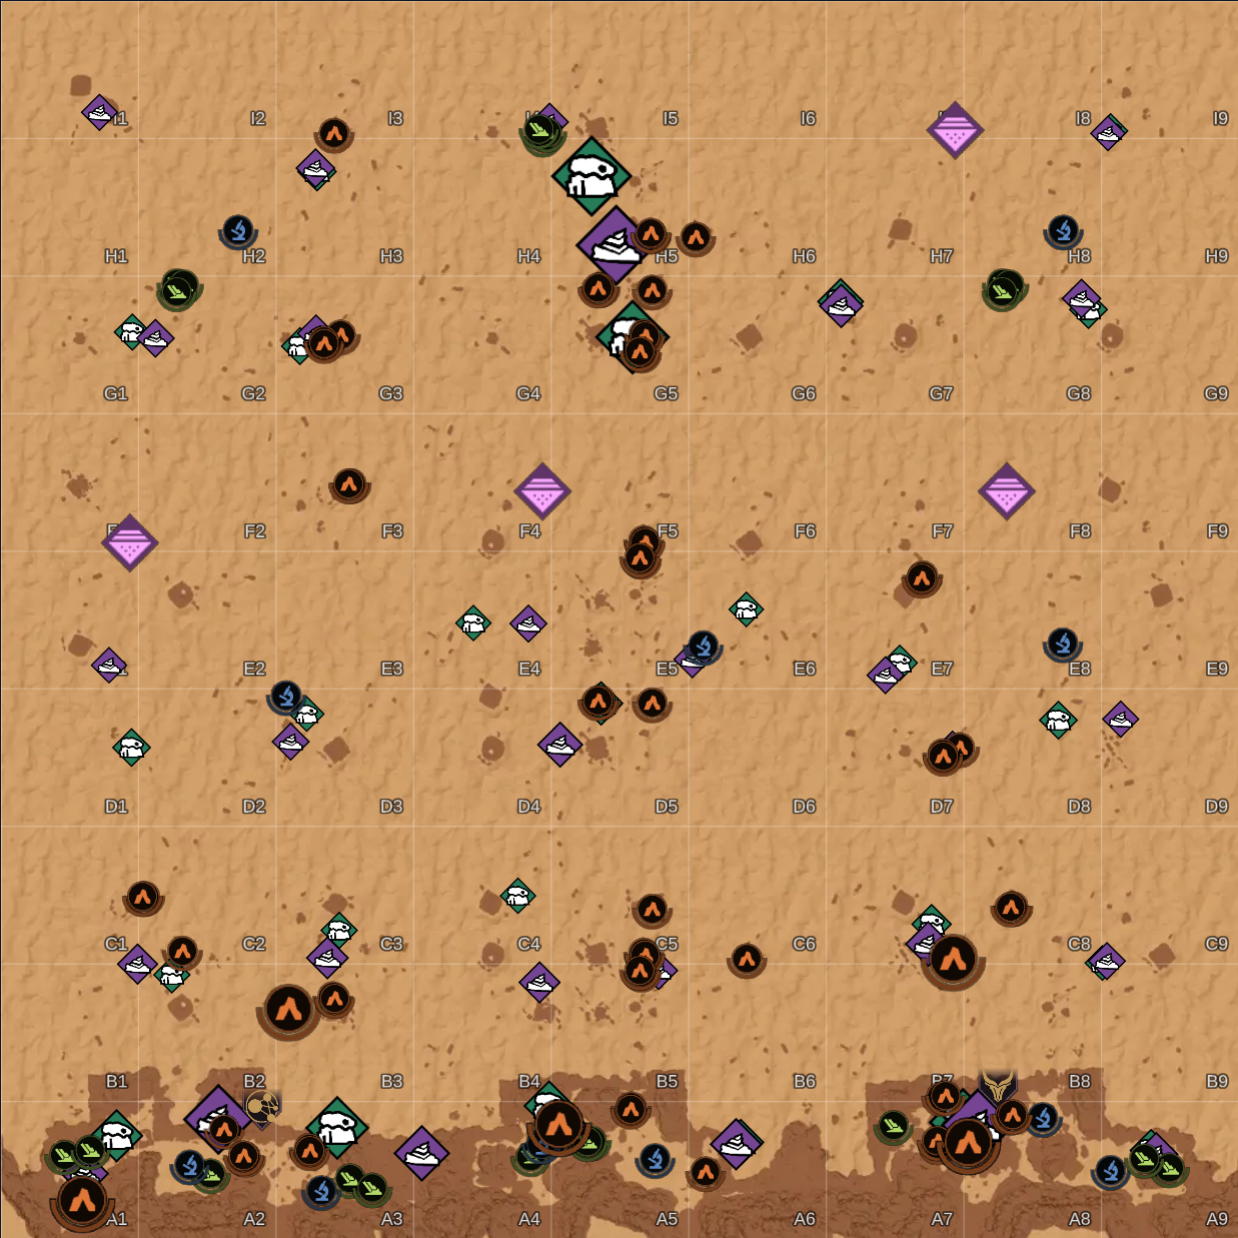
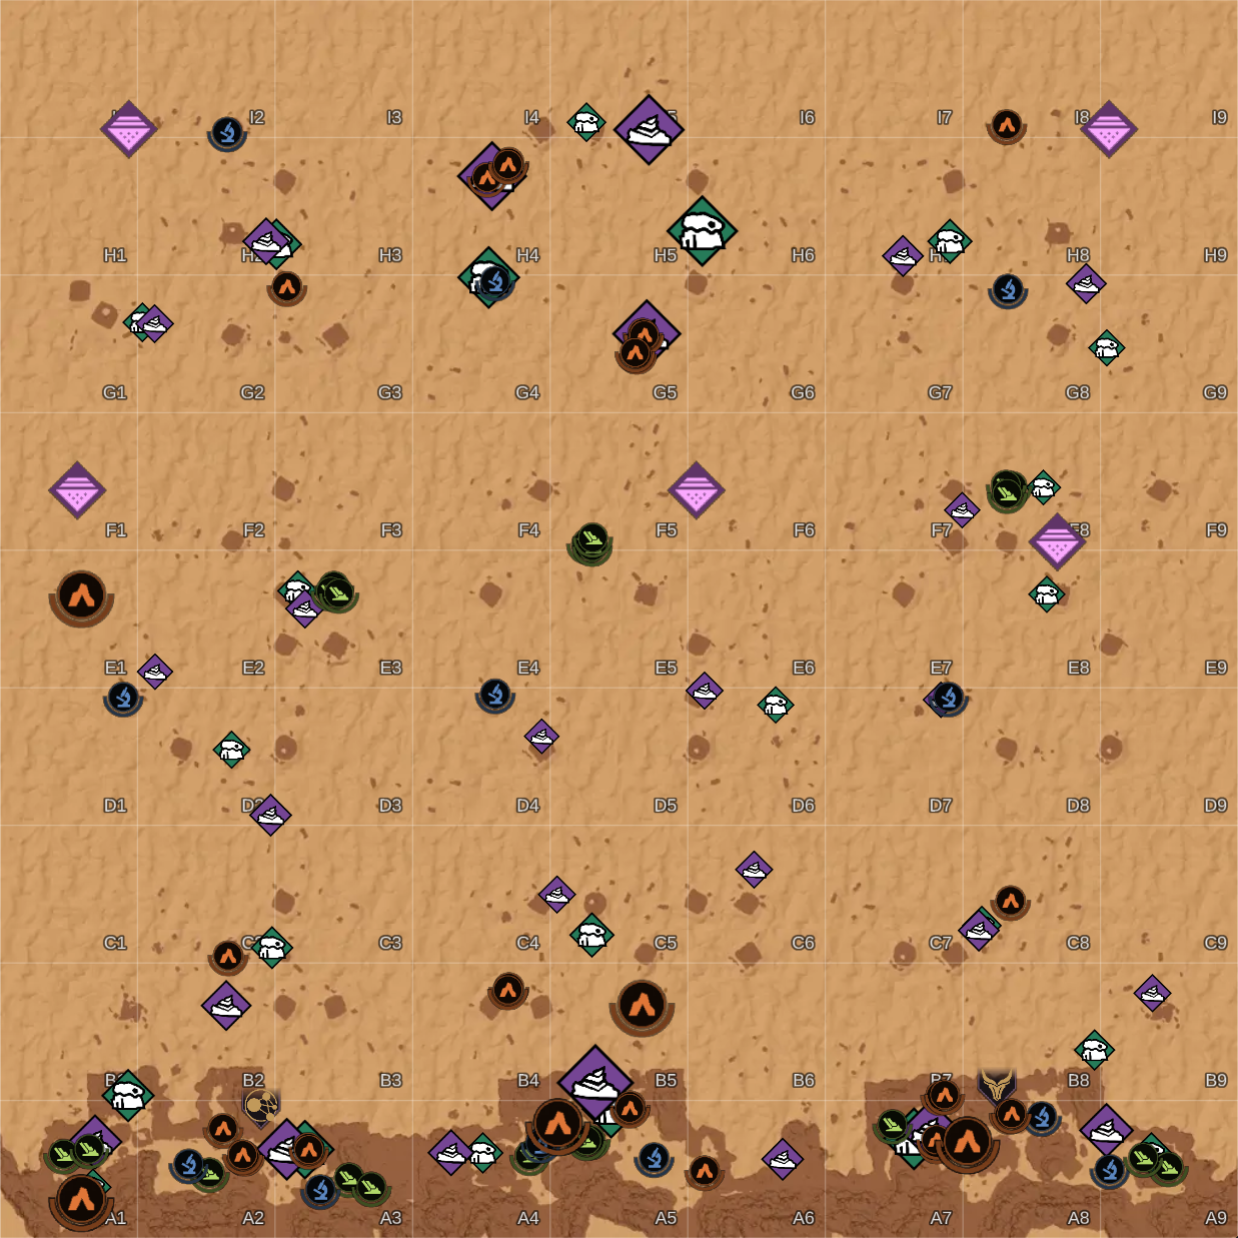
Add files via upload

diff --git a/index.html b/index.html
@@ -952,7 +952,7 @@ The transition from a lethal pair to a commanding power began with the induction
         Deep <span style="color: var(--blood-red);">Desert</span>
     </h2>
     <p style="color: var(--text-muted); font-family: 'Courier New', monospace; font-size: 0.9rem; margin-top: 8px; letter-spacing: 1px;">
-        Active Map: July 7 -> July 14
+        Active Map: July 15 -> July 21
     </p>
 </section>
 
